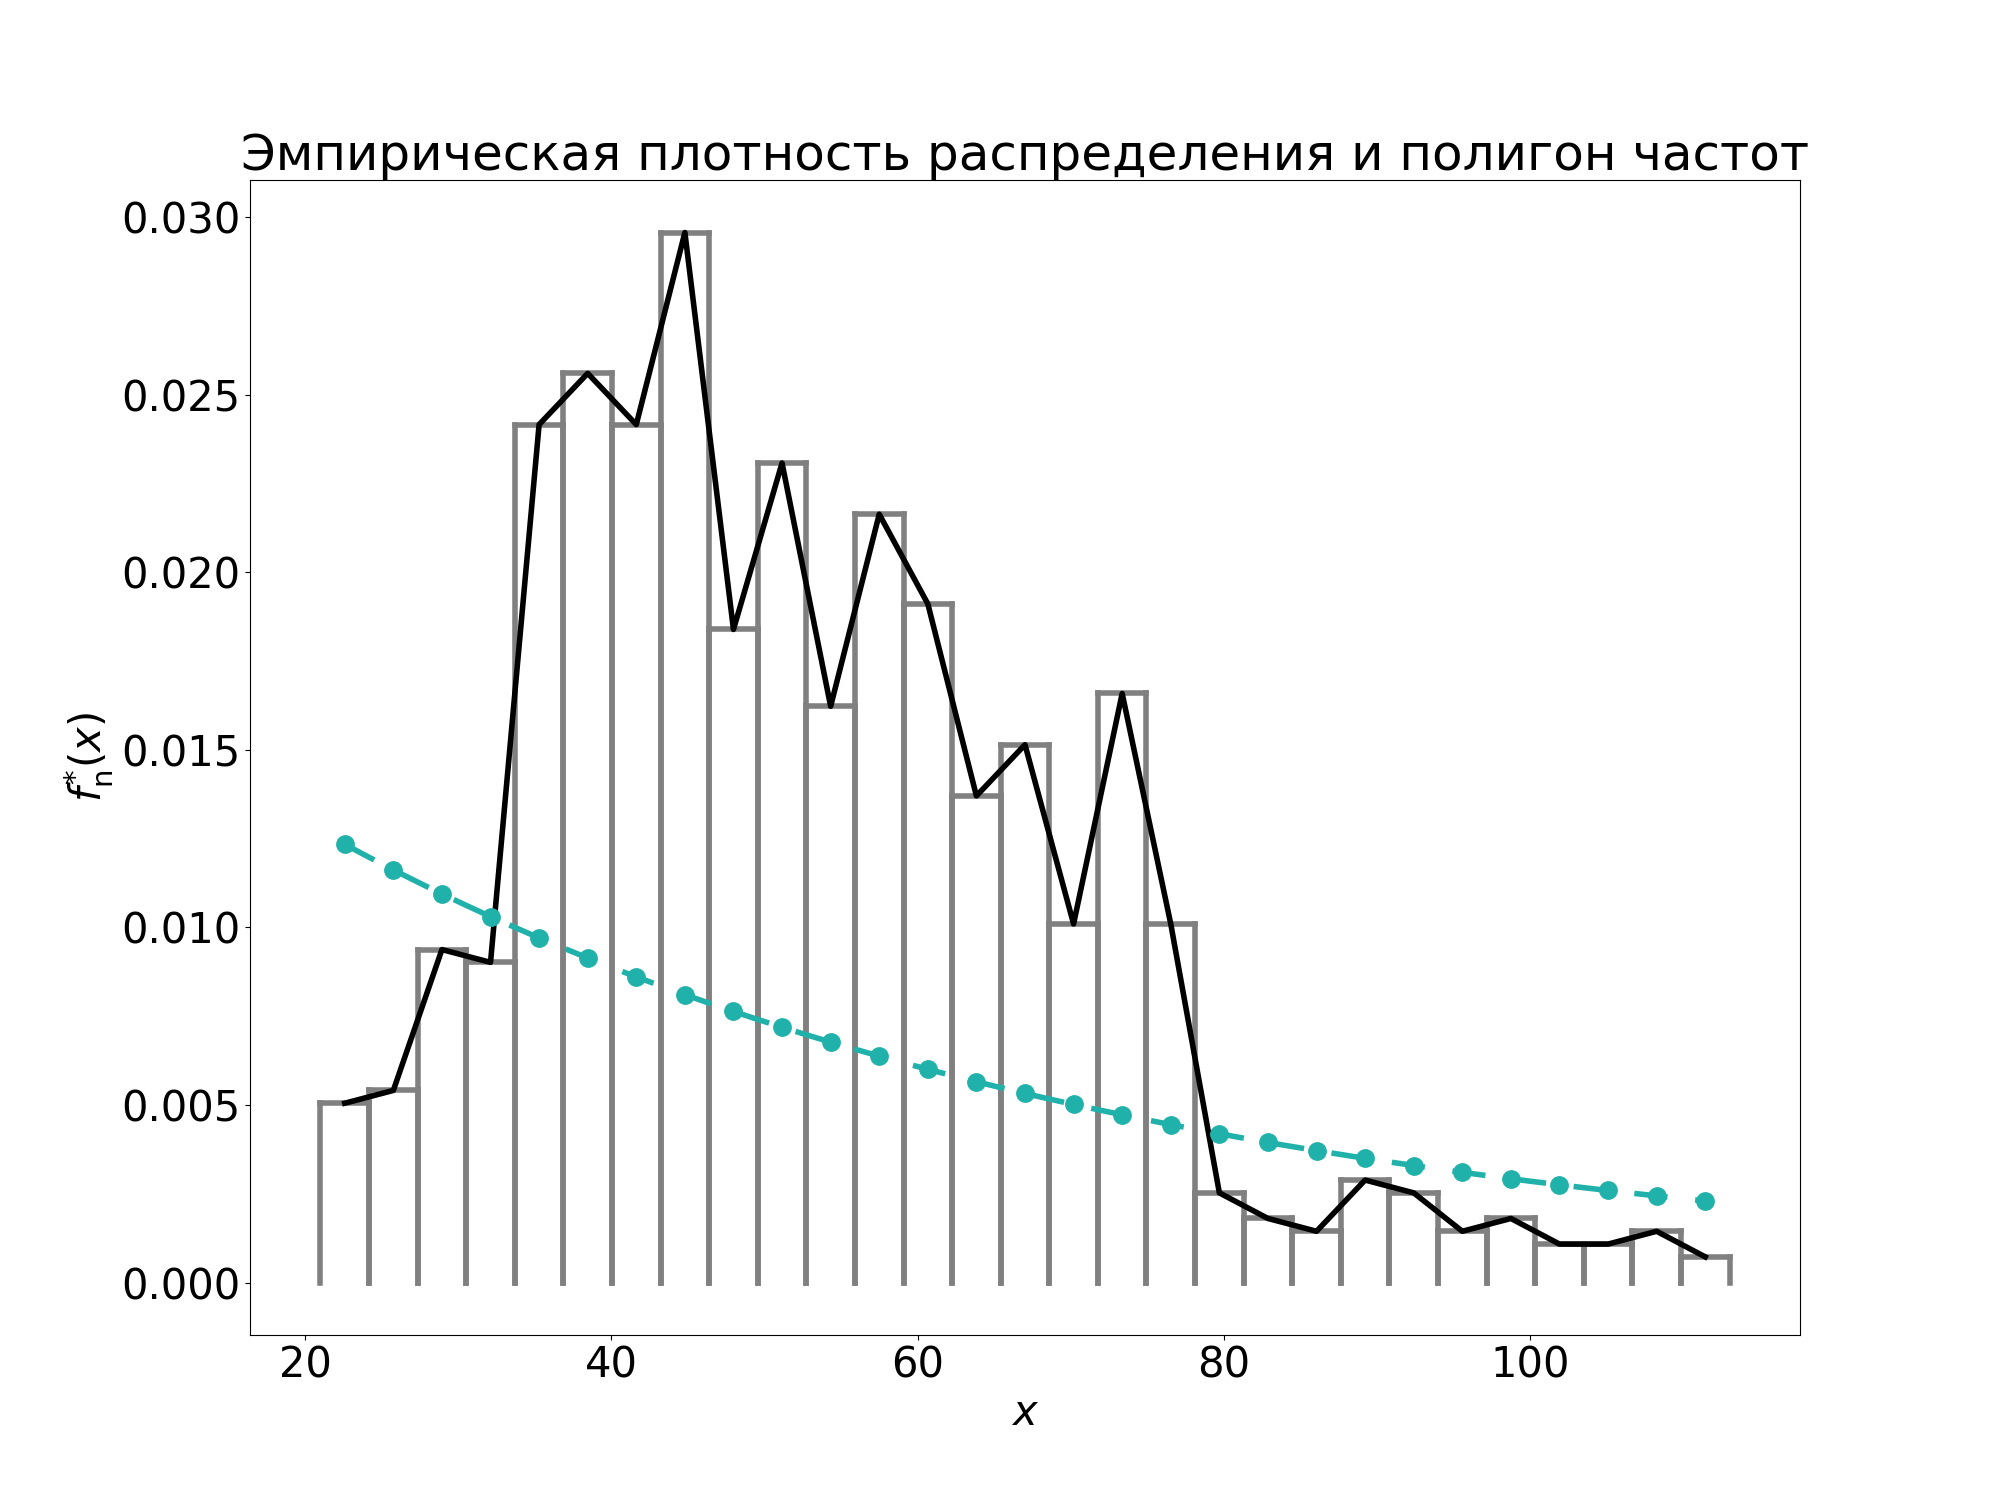
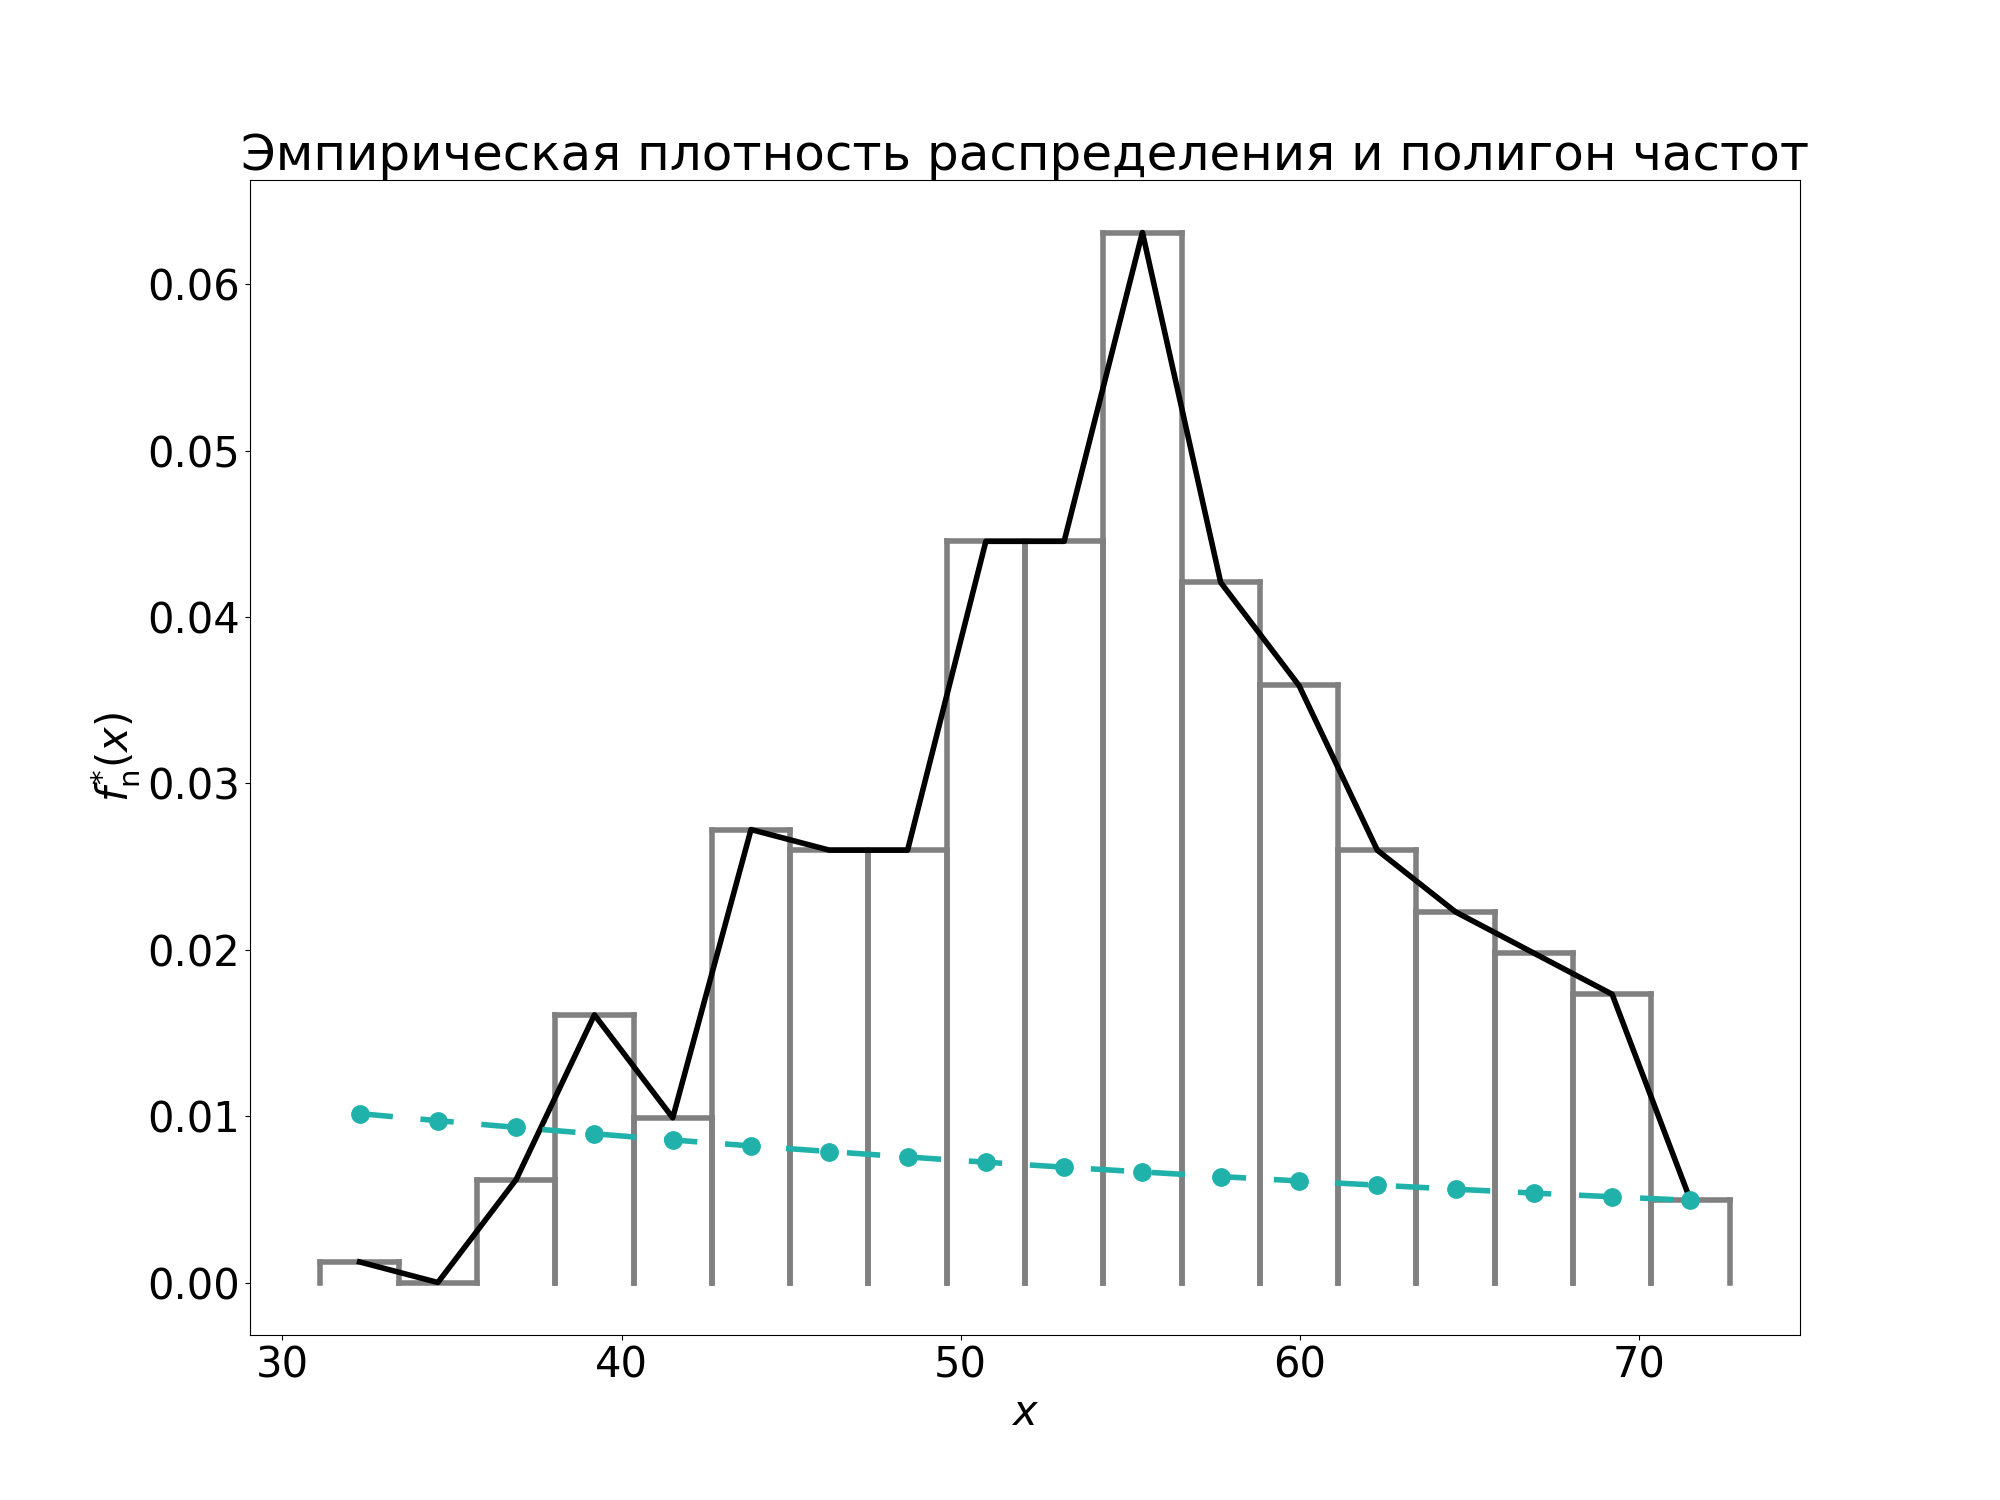
markers_fixed

diff --git a/backend/test.py b/backend/test.py
@@ -8,8 +8,8 @@ from first_part.graphics.initial_data_show import *
 from first_part.graphics.empirical_distribution_function_show import *
 from first_part.graphics.empirical_distribution_density_show import *
 
-obj = {"data":[50.0, 50.0, 50.0, 50.0, 50.0, 51.0, 50.0, 52.0, 51.0, 50.0, 50.0, 49.0, 48.0, 47.0, 50.0, 60.0, 68.0, 77.0, 90.0, 98.0, 102.0, 108.0, 113.0, 112.0, 108.0, 103.0, 100.0, 96.0, 91.0, 88.0, 84.0, 80.0, 78.0, 75.0, 73.0, 70.0, 68.0, 66.0, 64.0, 62.0, 60.0, 58.0, 56.0, 54.0, 52.0, 50.0, 49.0, 47.0, 46.0, 45.0, 44.0, 45.0, 46.0, 47.0, 47.0, 48.0, 48.0, 48.0, 47.0, 46.0, 46.0, 45.0, 44.0, 43.0, 27.0, 29.0, 35.0, 35.0, 36.0, 37.0, 37.0, 39.0, 39.0, 42.0, 41.0, 41.0, 42.0, 42.0, 42.0, 42.0, 41.0, 40.0, 40.0, 41.0, 43.0, 47.0, 42.0, 56.0, 59.0, 60.0, 60.0, 61.0, 62.0, 67.0, 71.0, 74.0, 76.0, 77.0, 77.0, 76.0, 74.0, 73.0, 70.0, 68.0, 66.0, 64.0, 62.0, 60.0, 59.0, 59.0, 59.0, 58.0, 59.0, 59.0, 60.0, 67.0, 60.0, 60.0, 60.0, 60.0, 60.0, 60.0, 59.0, 58.0, 56.0, 55.0, 54.0, 54.0, 52.0, 51.0, 50.0, 48.0, 47.0, 46.0, 45.0, 44.0, 27.0, 27.0, 27.0, 27.0, 29.0, 32.0, 34.0, 36.0, 36.0, 38.0, 39.0, 40.0, 41.0, 41.0, 40.0, 40.0, 40.0, 40.0, 40.0, 41.0, 43.0, 45.0, 48.0, 50.0, 54.0, 58.0, 65.0, 68.0, 69.0, 68.0, 68.0, 66.0, 65.0, 64.0, 63.0, 61.0, 59.0, 58.0, 56.0, 55.0, 54.0, 52.0, 50.0, 49.0, 48.0, 47.0, 46.0, 45.0, 44.0, 45.0, 44.0, 44.0, 46.0, 47.0, 48.0, 48.0, 47.0, 46.0, 55.0, 54.0, 55.0, 56.0, 56.0, 56.0, 55.0, 54.0, 53.0, 52.0, 51.0, 50.0, 49.0, 48.0, 47.0, 46.0, 44.0, 43.0, 42.0, 41.0, 40.0, 38.0, 48.0, 47.0, 46.0, 45.0, 44.0, 42.0, 41.0, 40.0, 39.0, 38.0, 40.0, 44.0, 50.0, 65.0, 72.0, 76.0, 76.0, 75.0, 74.0, 75.0, 76.0, 74.0, 74.0, 73.0, 72.0, 70.0, 68.0, 66.0, 64.0, 62.0, 60.0, 61.0, 64.0, 66.0, 69.0, 74.0, 78.0, 83.0, 89.0, 92.0, 93.0, 99.0, 105.0, 109.0, 108.0, 106.0, 104.0, 101.0, 100.0, 98.0, 96.0, 96.0, 96.0, 93.0, 90.0, 87.0, 84.0, 80.0, 76.0, 73.0, 70.0, 67.0, 64.0, 62.0, 59.0, 57.0, 55.0, 53.0, 50.0, 49.0, 48.0, 46.0, 45.0, 44.0, 42.0, 41.0, 40.0, 39.0, 38.0, 38.0, 29.0, 28.0, 28.0, 27.0, 27.0, 26.0, 26.0, 26.0, 25.0, 25.0, 24.0, 24.0, 24.0, 28.0, 29.0, 32.0, 36.0, 40.0, 45.0, 50.0, 53.0, 56.0, 63.0, 64.0, 65.0, 65.0, 64.0, 63.0, 60.0, 59.0, 58.0, 59.0, 62.0, 64.0, 68.0, 70.0, 72.0, 72.0, 70.0, 69.0, 67.0, 72.0, 72.0, 72.0, 73.0, 73.0, 72.0, 73.0, 73.0, 70.0, 68.0, 66.0, 64.0, 63.0, 62.0, 61.0, 59.0, 57.0, 56.0, 55.0, 54.0, 52.0, 51.0, 49.0, 48.0, 46.0, 45.0, 44.0, 42.0, 41.0, 40.0, 40.0, 38.0, 37.0, 36.0, 36.0, 35.0, 36.0, 39.0, 40.0, 44.0, 46.0, 56.0, 58.0, 62.0, 64.0, 68.0, 73.0, 76.0, 76.0, 76.0, 74.0, 72.0, 70.0, 68.0, 66.0, 65.0, 63.0, 60.0, 58.0, 56.0, 54.0, 53.0, 52.0, 50.0, 49.0, 48.0, 46.0, 45.0, 45.0, 44.0, 44.0, 43.0, 42.0, 41.0, 40.0, 39.0, 38.0, 38.0, 38.0, 38.0, 40.0, 43.0, 45.0, 47.0, 48.0, 50.0, 52.0, 53.0, 55.0, 58.0, 62.0, 66.0, 69.0, 72.0, 73.0, 73.0, 72.0, 71.0, 72.0, 74.0, 75.0, 75.0, 74.0, 74.0, 74.0, 74.0, 74.0, 72.0, 70.0, 68.0, 65.0, 64.0, 62.0, 60.0, 58.0, 57.0, 58.0, 62.0, 64.0, 65.0, 66.0, 65.0, 64.0, 62.0, 60.0, 58.0, 57.0, 55.0, 54.0, 52.0, 51.0, 49.0, 48.0, 47.0, 46.0, 45.0, 44.0, 43.0, 42.0, 42.0, 41.0, 41.0, 40.0, 40.0, 39.0, 38.0, 38.0, 37.0, 36.0, 36.0, 36.0, 35.0, 35.0, 34.0, 34.0, 34.0, 33.0, 33.0, 32.0, 32.0, 32.0, 46.0, 45.0, 44.0, 44.0, 44.0, 45.0, 46.0, 46.0, 46.0, 46.0, 46.0, 45.0, 45.0, 46.0, 45.0, 47.0, 52.0, 53.0, 56.0, 59.0, 60.0, 61.0, 60.0, 59.0, 58.0, 57.0, 55.0, 54.0, 53.0, 52.0, 50.0, 50.0, 51.0, 52.0, 51.0, 51.0, 50.0, 51.0, 52.0, 52.0, 53.0, 53.0, 54.0, 53.0, 53.0, 52.0, 52.0, 51.0, 50.0, 49.0, 47.0, 46.0, 45.0, 44.0, 43.0, 42.0, 43.0, 42.0, 42.0, 41.0, 41.0, 41.0, 41.0, 41.0, 41.0, 42.0, 42.0, 45.0, 47.0, 50.0, 52.0, 56.0, 58.0, 60.0, 62.0, 62.0, 69.0, 74.0, 76.0, 76.0, 80.0, 80.0, 78.0, 75.0, 72.0, 70.0, 68.0, 66.0, 62.0, 60.0, 57.0, 55.0, 54.0, 52.0, 50.0, 48.0, 46.0, 44.0, 43.0, 42.0, 41.0, 40.0, 38.0, 38.0, 37.0, 36.0, 36.0, 36.0, 36.0, 35.0, 35.0, 35.0, 34.0, 33.0, 33.0, 36.0, 34.0, 34.0, 35.0, 36.0, 42.0, 41.0, 41.0, 40.0, 36.0, 36.0, 35.0, 35.0, 35.0, 35.0, 35.0, 35.0, 36.0, 36.0, 36.0, 36.0, 36.0, 36.0, 36.0, 36.0, 38.0, 46.0, 52.0, 52.0, 55.0, 57.0, 58.0, 61.0, 65.0, 66.0, 70.0, 73.0, 74.0, 74.0, 75.0, 73.0, 72.0, 69.0, 67.0, 66.0, 64.0, 62.0, 60.0, 57.0, 55.0, 53.0, 52.0, 50.0, 48.0, 46.0, 45.0, 43.0, 42.0, 40.0, 38.0, 37.0, 36.0, 35.0, 34.0, 32.0, 31.0, 30.0, 30.0, 30.0, 30.0, 30.0, 29.0, 29.0, 29.0, 29.0, 30.0, 30.0, 31.0, 33.0, 33.0, 37.0, 39.0, 42.0, 48.0, 52.0, 58.0, 60.0, 62.0, 63.0, 63.0, 64.0, 66.0, 66.0, 67.0, 69.0, 69.0, 70.0, 70.0, 70.0, 68.0, 66.0, 64.0, 62.0, 60.0, 58.0, 57.0, 55.0, 53.0, 52.0, 50.0, 48.0, 47.0, 46.0, 44.0, 43.0, 42.0, 40.0, 39.0, 38.0, 37.0, 36.0, 36.0, 35.0, 35.0, 34.0, 28.0, 28.0, 29.0, 30.0, 31.0, 32.0, 33.0, 33.0, 33.0, 33.0, 34.0, 36.0, 39.0, 41.0, 43.0, 44.0, 44.0, 44.0, 44.0, 45.0, 50.0, 57.0, 60.0, 64.0, 66.0, 66.0, 66.0, 67.0, 67.0, 71.0, 76.0, 87.0, 92.0, 93.0, 91.0, 89.0, 85.0, 82.0, 79.0, 76.0, 73.0, 70.0, 68.0, 64.0, 62.0, 59.0, 57.0, 55.0, 53.0, 50.0, 48.0, 47.0, 45.0, 44.0, 43.0, 42.0, 40.0, 39.0, 38.0, 37.0, 36.0, 35.0, 34.0, 33.0, 22.0, 22.0, 21.0, 21.0, 21.0, 21.0, 21.0, 21.0, 22.0, 22.0, 24.0, 27.0, 28.0, 34.0, 35.0, 36.0, 37.0, 38.0, 38.0, 37.0, 43.0, 43.0, 43.0, 44.0, 46.0, 53.0, 63.0, 70.0, 80.0, 89.0, 89.0, 88.0, 86.0, 83.0, 81.0, 78.0, 75.0, 72.0, 70.0, 67.0, 64.0, 62.0, 60.0, 60.0, 59.0, 58.0, 57.0, 56.0, 55.0, 53.0, 51.0, 49.0, 48.0, 46.0, 44.0, 42.0, 41.0, 40.0, 38.0, 37.0, 36.0, 35.0, 34.0, 33.0, 32.0, 32.0, 31.0, 30.0, 29.0, 28.0, 27.0, 27.0],
-
+obj = {"data":[56.12, 56.75, 53.02, 53.86, 50.45, 50.25, 52.22, 55.38, 51.85, 52.87, 51.41, 45.36, 59.1, 60.05, 58.92, 60.28, 53.42, 60.21, 57.76, 60.11, 59.04, 59.68, 57.48, 57.2, 58.97, 58.24, 55.97, 51.8, 57.74, 57.59, 60.32, 56.28, 59.54, 56.49, 54.58, 59.56, 55.62, 57.7, 56.17, 55.24, 54.0, 55.78, 56.87, 55.62, 72.67, 69.25, 71.41, 69.13, 69.72, 69.24, 67.2, 63.97, 69.27, 68.4, 69.91, 67.5, 67.58, 66.23, 66.19, 65.92, 63.0, 62.0, 62.08, 60.76, 62.03, 60.5, 61.31, 56.72, 65.91, 56.32, 56.23, 57.85, 55.97, 48.6, 56.05, 62.67, 54.55, 61.02, 61.39, 53.66, 61.37, 61.22, 58.48, 61.63, 69.4, 60.03, 63.44, 67.21, 63.43, 63.3, 67.17, 66.23, 66.9, 64.26, 64.38, 69.05, 64.38, 66.44, 44.82, 46.73, 44.21, 43.09, 46.77, 42.07, 42.58, 45.11, 45.25, 45.5, 45.34, 46.39, 43.33, 47.84, 43.53, 44.12, 37.54, 39.16, 43.15, 38.24, 36.22, 36.41, 39.45, 39.91, 39.42, 39.74, 39.96, 38.39, 44.79, 45.44, 54.59, 56.42, 55.15, 52.6, 54.2, 56.11, 48.44, 41.74, 41.88, 44.1, 44.8, 44.73, 68.59, 68.34, 70.62, 69.51, 69.03, 68.18, 63.33, 62.9, 64.04, 65.22, 71.36, 67.15, 65.12, 64.79, 65.05, 65.63, 66.59, 65.09, 63.89, 65.52, 64.26, 60.36, 59.62, 62.5, 62.79, 67.17, 59.6, 63.84, 55.52, 60.76, 67.05, 63.29, 65.33, 60.5, 58.29, 55.76, 53.58, 54.86, 55.61, 64.24, 62.26, 58.18, 54.25, 56.5, 62.21, 62.06, 52.6, 52.67, 49.23, 44.41, 51.34, 59.35, 44.82, 41.38, 56.67, 57.95, 58.68, 56.69, 58.28, 58.01, 58.29, 58.92, 57.44, 57.95, 58.21, 58.05, 52.1, 53.61, 46.51, 46.32, 53.54, 50.88, 52.57, 55.51, 51.22, 51.14, 54.94, 49.75, 54.34, 52.43, 48.95, 50.06, 50.96, 52.72, 54.57, 56.99, 53.9, 54.69, 55.13, 55.99, 55.99, 54.25, 45.45, 43.16, 50.07, 48.78, 57.05, 53.87, 55.02, 54.62, 55.7, 55.15, 56.69, 54.25, 54.02, 53.42, 53.34, 53.27, 58.54, 54.62, 51.33, 45.29, 43.73, 43.99, 46.25, 47.39, 46.32, 41.77, 45.72, 51.14, 50.35, 51.89, 48.85, 53.06, 48.09, 50.82, 56.36, 47.66, 40.26, 43.96, 43.7, 44.74, 42.09, 50.19, 50.1, 51.62, 52.82, 52.54, 55.61, 54.49, 49.79, 57.69, 52.62, 52.74, 51.75, 54.94, 47.47, 52.94, 58.14, 55.36, 57.45, 60.58, 60.66, 61.66, 60.14, 59.69, 60.17, 61.04, 50.97, 55.77, 56.7, 48.06, 51.39, 50.72, 48.41, 48.24, 52.91, 50.6, 46.33, 50.54, 46.04, 49.18, 53.67, 50.97, 54.63, 52.52, 54.66, 52.85, 54.07, 56.73, 49.98, 39.57, 52.88, 45.39, 55.21, 46.32, 48.24, 49.55, 48.53, 49.92, 50.23, 51.03, 48.02, 44.33, 37.27, 38.87, 44.21, 40.59, 43.35, 50.31, 51.82, 47.81, 47.56, 51.69, 46.29, 49.78, 39.18, 31.12, 40.3, 35.91]
+,
 "k":0
      }
 

diff --git a/backend/first_part/graphics/initial_data_show.py b/backend/first_part/graphics/initial_data_show.py
@@ -14,9 +14,9 @@ def show_points(json_name, key, label='', marker='vr', x_ticks=None, x_label='',
     x_axis = [i for i in range(len( data))]
     y_axis = data[:]
     if info['n'] > 150:
-        plt.plot(x_axis, y_axis, marker, markersize = 15)
+        plt.plot(x_axis, y_axis, marker = 'o', color = 'blue', markersize = 10,linestyle='None')
     else:
-        plt.plot(x_axis, y_axis, marker, markersize=25)
+        plt.plot(x_axis, y_axis, marker = 'o', color = 'blue', markersize=20,linestyle='None')
 
     if y_ticks is not None:
         plt.yticks(y_ticks,y_label)
